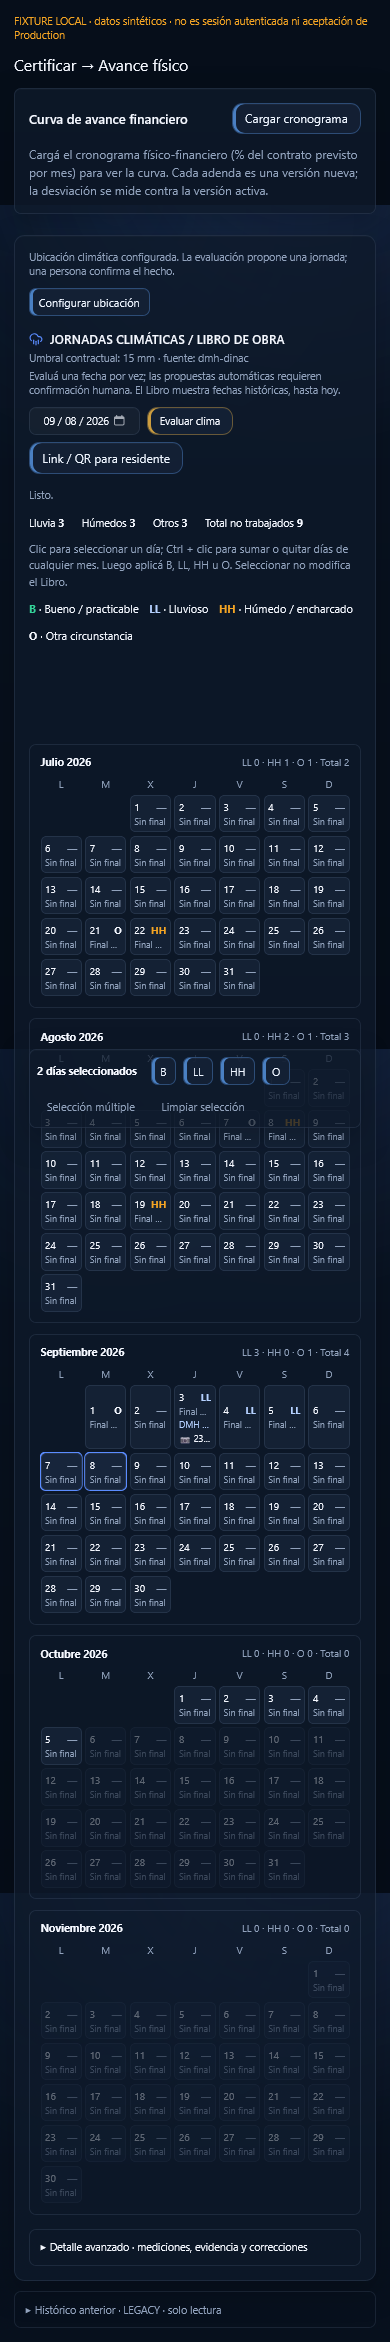
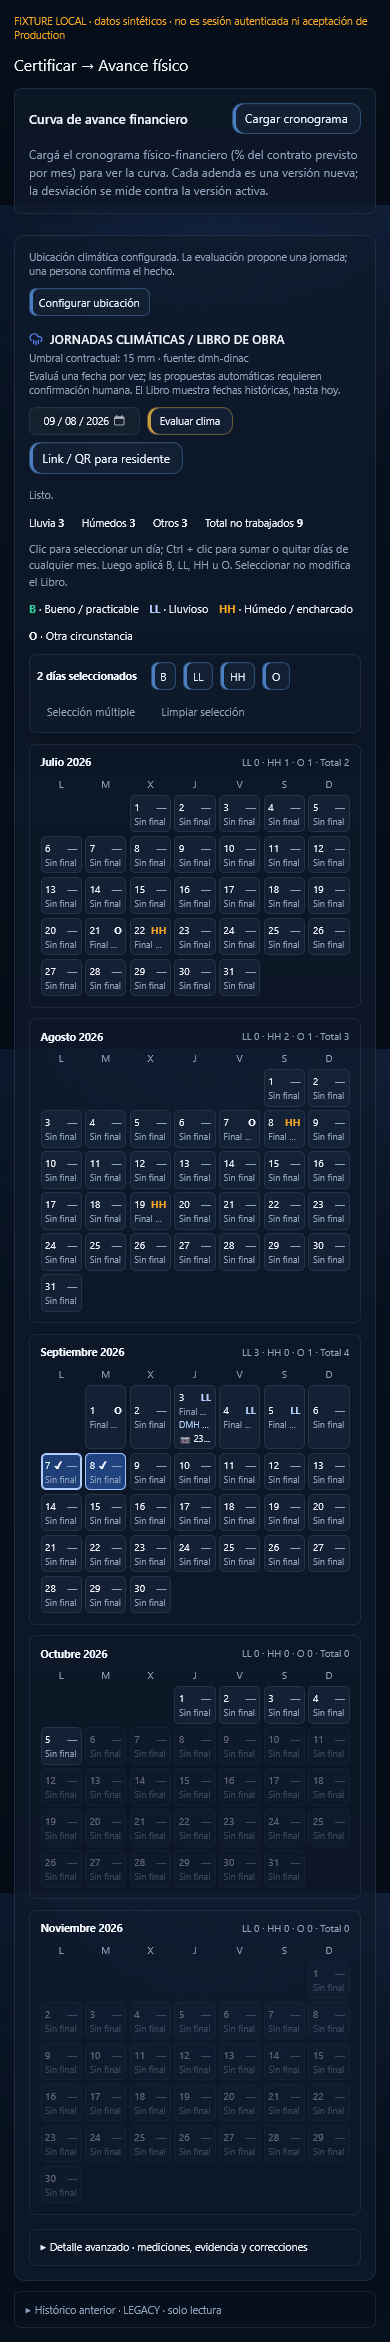
fix(climate): isolate hover and restore clear day selection

diff --git a/app/(internal)/projects/[id]/climate-libro-calendar.tsx b/app/(internal)/projects/[id]/climate-libro-calendar.tsx
@@ -5,6 +5,7 @@ import { Button } from "@/components/ui/button";
 import { climateToday } from "@/lib/procurement/climate-entry";
 import { LIBRO_LABELS, libroCode, libroDayFacts, libroMonths } from "@/lib/procurement/climate-calendar";
 import { selectClimateDate, type ClimateSelectionResult } from "@/lib/projects/climate-selection";
+import styles from "./climate-libro-calendar.module.css";
 import type { ClimateEvent, ClimateEvidence, Project, ProjectWorkdayStatus, WeatherCode } from "@/lib/types";
 
 const MONTHS = ["Enero", "Febrero", "Marzo", "Abril", "Mayo", "Junio", "Julio", "Agosto", "Septiembre", "Octubre", "Noviembre", "Diciembre"];
@@ -52,7 +53,7 @@ export function ClimateLibroCalendar({ project, events, workdays, evidence, pend
     </div>
     <p className="text-[11px] text-[var(--muted)]">Clic para seleccionar un día; Ctrl + clic para sumar o quitar días de cualquier mes. Luego aplicá B, LL, HH u O. Seleccionar no modifica el Libro.</p>
     <div className="flex flex-wrap gap-3 text-[11px]">{(Object.keys(LIBRO_LABELS) as WeatherCode[]).map(code => <span key={code}><strong className={COLORS[code]}>{code}</strong> · {LIBRO_LABELS[code]}</span>)}</div>
-    <div className="sticky top-0 z-10 flex flex-wrap items-center gap-2 rounded-lg border border-[var(--border)] bg-[var(--panel)] p-2" aria-label="Marcar estado del Libro">
+    <div className="flex flex-wrap items-center gap-2 rounded-lg border border-[var(--border)] bg-[var(--panel)] p-2" aria-label="Marcar estado del Libro">
       <strong className="mr-2 text-xs" aria-live="polite">{selected.length} {selected.length === 1 ? "día seleccionado" : "días seleccionados"}</strong>
       {(Object.keys(LIBRO_LABELS) as WeatherCode[]).map(code => <Button key={code} type="button" size="sm" variant={selectedFacts?.final === code ? "primary" : "secondary"} disabled={busy || !selected.length} onClick={() => void markSelection(code)} aria-label={`Aplicar ${code} a días seleccionados`} title={LIBRO_LABELS[code]}>{code}</Button>)}
       <Button type="button" variant="ghost" size="sm" disabled={busy} aria-pressed={additive} onClick={() => setAdditive(value => !value)}>Selección múltiple</Button>
@@ -86,8 +87,8 @@ export function ClimateLibroCalendar({ project, events, workdays, evidence, pend
             const outside = date > today || !!project.start_date && date < project.start_date;
             const external = facts.observations.find(event => event.external_precipitation_mm != null);
             const resident = facts.residentPhotos[0];
-            return <button key={date} type="button" data-testid={`libro-day-${date}`} aria-label={`Día ${date}`} aria-pressed={selected.includes(date)} disabled={busy || outside} onClick={event => { setSelected(value => selectClimateDate(value, date, additive || event.ctrlKey || event.metaKey)); setResult(null); onSelectDate(date); }} className={`min-w-0 rounded-md border p-1 text-left text-[10px] transition-[background-color,border-color,box-shadow] duration-150 enabled:hover:border-blue-300 enabled:hover:bg-blue-500/30 enabled:hover:shadow-[0_0_14px_rgba(96,165,250,0.55)] enabled:hover:ring-1 enabled:hover:ring-blue-300/80 disabled:opacity-35 focus-visible:outline focus-visible:outline-2 focus-visible:outline-[var(--primary)] ${selected.includes(date) ? "border-[var(--primary)] bg-[var(--hover)] ring-1 ring-[var(--primary)]" : "border-[var(--border)] bg-[var(--panel-2)]"}`}>
-              <span className="flex justify-between gap-1"><span>{index + 1}</span><strong className={facts.final ? COLORS[facts.final] : "text-[var(--muted)]"}>{facts.final ?? "—"}</strong></span>
+            return <button key={date} type="button" data-testid={`libro-day-${date}`} aria-label={`Día ${date}`} aria-pressed={selected.includes(date)} disabled={busy || outside} onClick={event => { setSelected(value => selectClimateDate(value, date, additive || event.ctrlKey || event.metaKey)); setResult(null); onSelectDate(date); }} className={`${styles.day} min-w-0 rounded-md border p-1 text-left text-[10px] disabled:opacity-35`}>
+              <span className="flex justify-between gap-1"><span>{index + 1}{selected.includes(date) ? <span aria-hidden="true" className="ml-1 font-bold text-white">✓</span> : null}</span><strong className={facts.final ? COLORS[facts.final] : "text-[var(--muted)]"}>{facts.final ?? "—"}</strong></span>
               <span className="block truncate text-[9px] text-[var(--muted)]">{facts.final ? "Final humano" : "Sin final"}</span>
               {facts.proposal ? <span className="block truncate text-[9px] text-[var(--warn)]">{facts.day?.proposed_automatically ? "Sugerencia" : "Propuesta"} {facts.proposal}</span> : null}
               {external ? <span className="block truncate text-[9px] text-[#b5d1ff]">{external.source === "DMH_DINAC" ? "DMH" : "Meteo"} {external.external_precipitation_mm} mm</span> : null}

diff --git a/app/(internal)/projects/[id]/climate-libro-calendar.module.css b/app/(internal)/projects/[id]/climate-libro-calendar.module.css
@@ -1,0 +1,27 @@
+.day {
+  background: var(--panel-2);
+  border-color: var(--border);
+  box-shadow: none;
+  transition: background-color 120ms ease, border-color 120ms ease, box-shadow 120ms ease;
+}
+
+.day:not(:disabled):hover {
+  background: rgba(65, 121, 215, 0.3);
+  border-color: #7eafff;
+  box-shadow: inset 0 0 0 1px rgba(126, 175, 255, 0.45);
+}
+
+.day[aria-pressed="true"]:not(:disabled) {
+  background: rgba(50, 106, 208, 0.48);
+  border-color: #b2ceff;
+  box-shadow: inset 0 0 0 1px #b2ceff;
+}
+
+.day[aria-pressed="true"]:not(:disabled):hover {
+  background: rgba(50, 106, 208, 0.62);
+}
+
+.day:focus-visible {
+  outline: 2px solid #b2ceff;
+  outline-offset: 2px;
+}

diff --git a/docs/audits/UI_RECOVERY_01.md b/docs/audits/UI_RECOVERY_01.md
@@ -1,5 +1,11 @@
 # UI RECOVERY 01
 
+## Hover correction
+
+The Tailwind `enabled:hover:bg-blue-*` class introduced at `c03c80cc2703157c955d7d0adcc361650284bc60` unintentionally matched the global legacy `button[class*="bg-blue-"]` selector, which forces permanent background/border/inset shadow using `!important`. It also masked selection styles. The correction removes those utility names from day buttons and isolates idle/hover/selected styling in a CSS Module, leaving shared ERP CSS unchanged. Hover affects only the enabled day under the cursor; selection remains filled, bordered and checked after the cursor leaves. The toolbar is no longer sticky.
+
+Actual local Firefox verification: **23 checks PASS**, including computed idle/hover/leave/disabled/selection styles, multi-selection, partial results and confirmation provenance. Focused climate suite: **84 PASS**. Captures remain explicitly synthetic, not authenticated deployed acceptance. No backend, domain, DB, migration or Production changes.
+
 ## Calendar selection update — current implementation
 
 User steering supersedes the compact click-cycle request: retain the month-card layout at HEAD `56b92fb7f18ae1ac8a50a8b3bc5323950acc11ce`. Plain click selects one date; Ctrl/Meta+click adds/removes dates across months. A touch-friendly selection toggle provides the same behavior without modifiers. The top toolbar applies B/LL/HH/O to selected dates; selection itself does not write.
